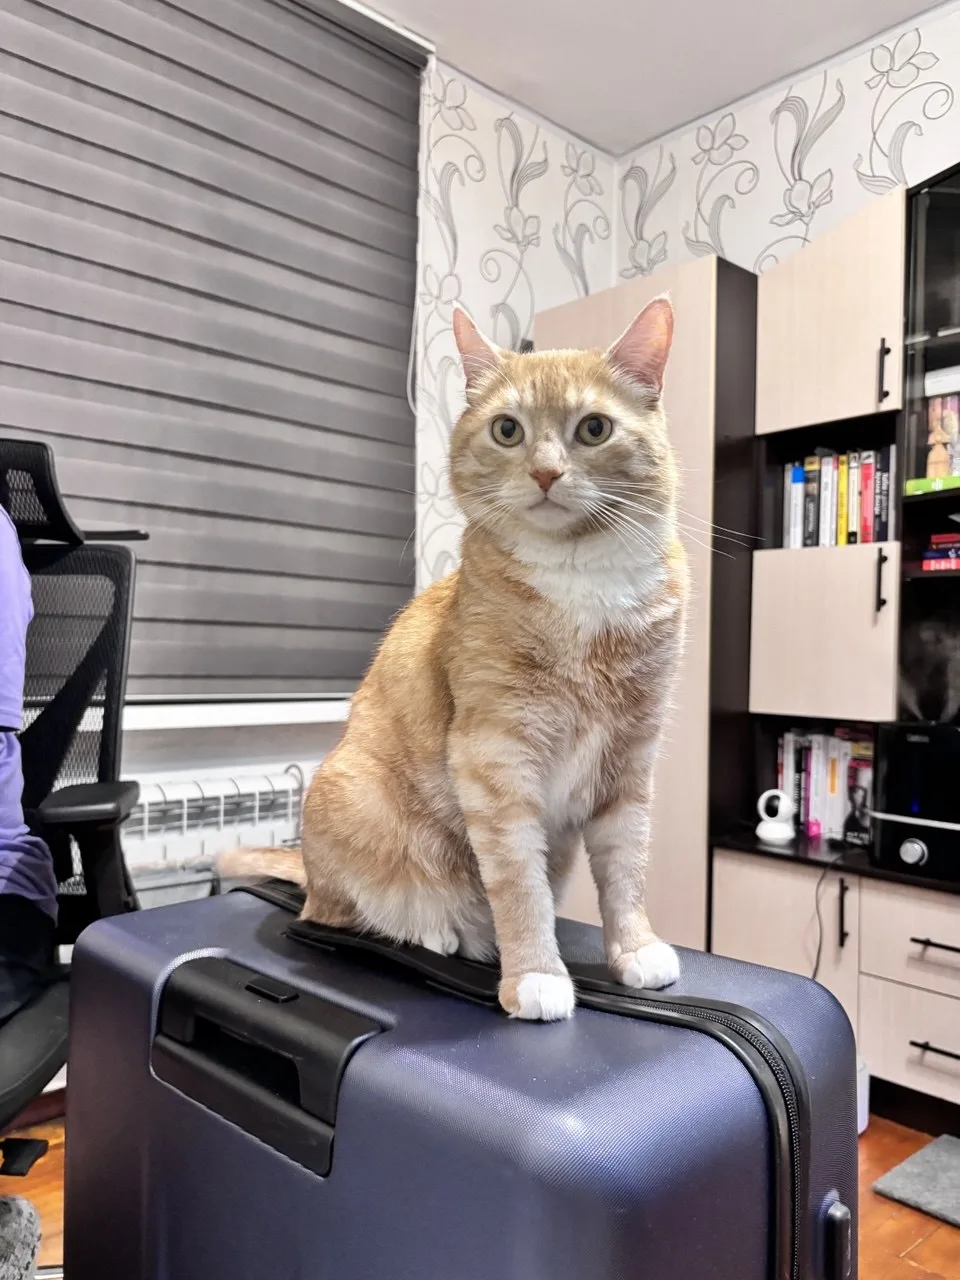
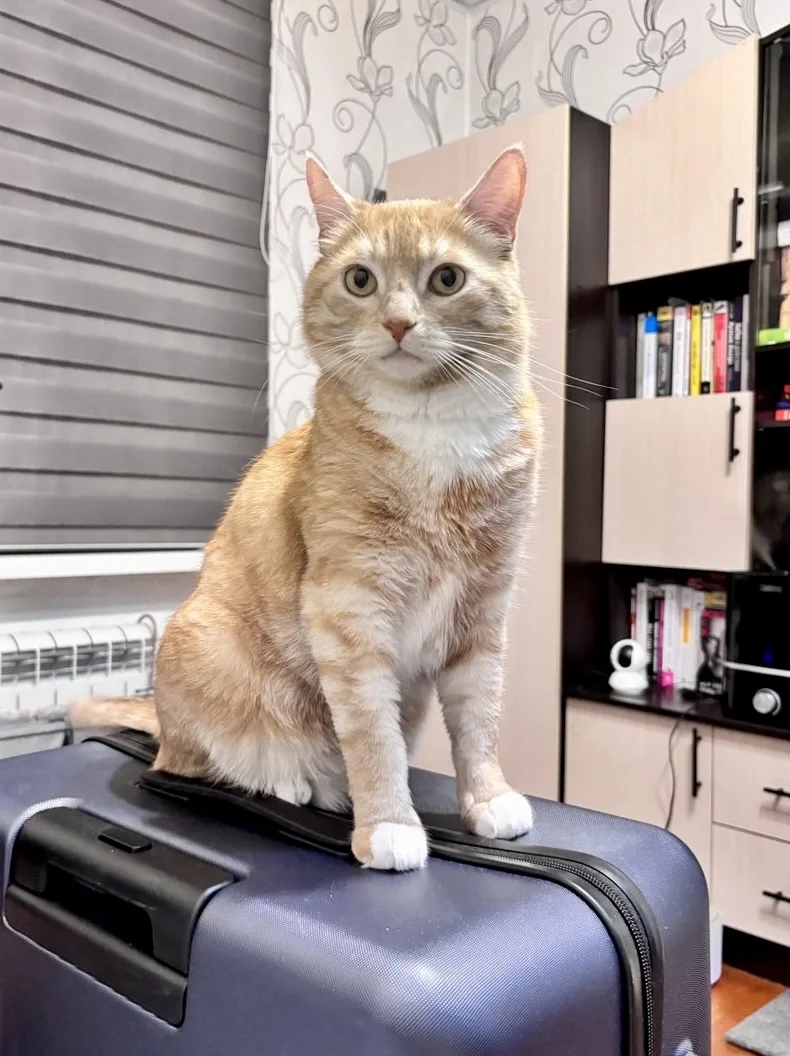
feat: refresh Perseus photos and profile details

diff --git a/src/data/site.ts b/src/data/site.ts
@@ -17,7 +17,7 @@ type SiteContent = {
   setup: { eyebrow: string; title: string; intro: string; items: string[] };
   health: { eyebrow: string; title: string; intro: string; statuses: string[]; note: string };
   travels: { eyebrow: string; title: string; intro: string; trips: { city: string; date: string; type: string; note: string; image: string }[] };
-  gallery: { eyebrow: string; title: string; images: { src: string; alt: string; caption: string; position?: string }[] };
+  gallery: { eyebrow: string; title: string; images: { src: string; alt: string; caption: string; width: number; height: number; position?: string }[] };
   landlords: { eyebrow: string; title: string; paragraphs: string[]; checklist: string[]; cta: string };
   faq: { eyebrow: string; title: string; items: { q: string; a: string }[] };
   contact: { eyebrow: string; title: string; text: string; telegram: string; email: string };
@@ -37,10 +37,10 @@ export const content: Record<Locale, SiteContent> = {
     apartment: { eyebrow: '02 / Home life', title: 'A considerate little guest', intro: 'Observed home behaviour · Familiar routines and our own equipment help every new place feel safe — for Perseus and for the home.', cards: [
       { icon: '◇', title: 'Litter trained', text: 'Uses his own litter box and it is cleaned regularly.' }, { icon: '╱', title: 'Scratching post', text: 'Travels with his own scratching post.' }, { icon: '○', title: 'Own supplies', text: 'Food bowls, litter box, carrier and other essentials travel with us.' }, { icon: '⌂', title: 'Walks in a harness', text: 'Perseus does not go outside unattended.' }, { icon: '◎', title: 'Supervised', text: 'He is not left alone for long periods during travel.' }, { icon: '✦', title: 'Cleaning', text: 'We clean the apartment carefully before leaving.' }
     ] },
-    setup: { eyebrow: 'Travel inventory', title: 'Perseus’s travel kit', intro: 'Everything needed for everyday life travels with him.', items: ['Carrier', 'Portable litter box', 'Scratching post', 'Toys', 'Blanket', 'Camera'] },
+    setup: { eyebrow: 'Travel inventory', title: 'Perseus’s travel kit', intro: 'Everything needed for everyday life travels with him.', items: ['Carrier · approx. 40 × 30 × 30 cm', 'Portable litter box · 45 × 36 × 15 cm', 'Scratching post', 'Toys', 'Blanket', 'Camera'] },
     health: { eyebrow: '03 / Health · Health record', title: 'Well cared for, always', intro: 'Perseus has all his vaccinations and a microchip.', statuses: ['All vaccinations', 'Microchipped'], note: 'Veterinary documents are available upon request.' },
     travels: { eyebrow: '04 / Travels · Field journal', title: 'Perseus’s travel journal', intro: 'A growing record of windows inspected, chairs approved and naps taken.', trips: [{"city": "On the road", "date": "", "type": "By car", "note": "Watching the world from a familiar blanket.", "image": "/images/cat/perseus-car-ride.webp"}, {"city": "A cosy corner", "date": "", "type": "Together", "note": "A blanket and a harness for the journey.", "image": "/images/cat/perseus-train-companion.webp"}, {"city": "A walk in the woods", "date": "", "type": "In a harness", "note": "Exploring the forest on a lead.", "image": "/images/cat/perseus-forest-walk.webp"}, {"city": "A quiet pause", "date": "", "type": "On the terrace", "note": "Watching the trees from the terrace.", "image": "/images/cat/perseus-terrace-watch.webp"}] },
-    gallery: {"eyebrow": "Photo album", "title": "Little moments together", "images": [{"src": "/images/cat/perseus-portrait.webp", "alt": "Perseus resting on a chair", "caption": "A moment at home", "position": "50% 45%"}, {"src": "/images/cat/perseus-forest-portrait.webp", "alt": "Perseus in a harness among forest plants", "caption": "Exploring together", "position": "50% 45%"}, {"src": "/images/cat/perseus-blanket-hideout.webp", "alt": "Perseus peeking out from under a blanket", "caption": "Under the blanket", "position": "50% 45%"}, {"src": "/images/cat/perseus-carrier-nap.webp", "alt": "Perseus sleeping inside his carrier", "caption": "A nap on the road", "position": "50% 45%"}]},
+    gallery: {"eyebrow": "Photo album", "title": "Little moments together", "images": [{"src": "/images/cat/perseus-home-portrait.webp", "alt": "Portrait of Perseus at home", "caption": "A moment at home", "position": "50% 45%", "width": 1227, "height": 1600}, {"src": "/images/cat/perseus-forest-portrait.webp", "alt": "Perseus in a harness among forest plants", "caption": "Exploring together", "position": "50% 45%", "width": 960, "height": 1280}, {"src": "/images/cat/perseus-playtime.webp", "alt": "Perseus playing with a toy on the floor", "caption": "Time to play", "position": "50% 45%", "width": 848, "height": 983}, {"src": "/images/cat/perseus-carrier-nap.webp", "alt": "Perseus sleeping inside his carrier", "caption": "A nap on the road", "position": "50% 45%", "width": 960, "height": 1280}]},
     landlords: { eyebrow: '05 / For landlords', title: 'For hosts & landlords', paragraphs: ['Traveling with a cat sometimes raises reasonable questions for property owners. Perseus is an indoor, litter-trained cat accustomed to staying in apartments.', 'We take full responsibility for our pet and any damage caused by him.', 'We travel with his own litter box, scratching post, carrier, bowls and other supplies. We also clean the property carefully before departure. Veterinary documents can be provided upon request.'], checklist: ['Indoor cat', 'Litter-trained', 'Own scratching post', 'Own travel equipment', 'Vaccinated & microchipped', 'Responsible owners', 'Cleaning before departure'], cta: 'Ask us about Perseus' },
     faq: { eyebrow: 'Good to know', title: 'Questions from landlords', items: [
       { q: 'Does Perseus scratch furniture?', a: 'He uses his own scratching post. We always bring one when traveling.' }, { q: 'Is he litter-trained?', a: 'Yes. He consistently uses his litter box.' }, { q: 'Does he stay alone in the apartment?', a: 'Usually only for short periods.' }, { q: 'Does he go outdoors?', a: 'He goes for walks in a harness and on a lead, with us.' }, { q: 'Can you provide vaccination records?', a: 'Yes. Veterinary documents can be provided privately upon request.' }, { q: 'What happens if the cat damages something?', a: 'We take responsibility for damage caused by our pet.' }
@@ -60,10 +60,10 @@ export const content: Record<Locale, SiteContent> = {
     apartment: { eyebrow: '02 / Жизнь дома', title: 'Деликатный маленький гость', intro: 'Наблюдения за поведением дома · Привычный распорядок и собственные вещи помогают бережно освоиться на новом месте.', cards: [
       { icon: '◇', title: 'Приучен к лотку', text: 'Пользуется своим лотком, который регулярно убирается.' }, { icon: '╱', title: 'Когтеточка', text: 'Путешествует со своей когтеточкой.' }, { icon: '○', title: 'Свои вещи', text: 'Миски, лоток, переноска и всё необходимое всегда с нами.' }, { icon: '⌂', title: 'Прогулки на шлейке', text: 'Персей не выходит на улицу без присмотра.' }, { icon: '◎', title: 'Под присмотром', text: 'В поездках он не остаётся один надолго.' }, { icon: '✦', title: 'Уборка', text: 'Перед отъездом мы тщательно убираем квартиру.' }
     ] },
-    setup: { eyebrow: 'Дорожный инвентарь', title: 'Дорожный набор Персея', intro: 'Всё необходимое для повседневной жизни путешествует вместе с ним.', items: ['Переноска', 'Портативный лоток', 'Когтеточка', 'Игрушки', 'Плед', 'Камера'] },
+    setup: { eyebrow: 'Дорожный инвентарь', title: 'Дорожный набор Персея', intro: 'Всё необходимое для повседневной жизни путешествует вместе с ним.', items: ['Переноска · около 40 × 30 × 30 см', 'Портативный лоток · 45 × 36 × 15 см', 'Когтеточка', 'Игрушки', 'Плед', 'Камера'] },
     health: { eyebrow: '03 / Здоровье · Карта здоровья', title: 'Всегда под заботой', intro: 'У Персея есть все прививки и микрочип.', statuses: ['Все прививки', 'Есть микрочип'], note: 'Ветеринарные документы предоставим по запросу.' },
     travels: { eyebrow: '04 / Поездки · Полевой журнал', title: 'Журнал путешествий Персея', intro: 'Коллекция проверенных окон, удобных кресел и отличных мест для сна.', trips: [{"city": "В дороге", "date": "", "type": "В машине", "note": "Наблюдает за дорогой с привычного пледа.", "image": "/images/cat/perseus-car-ride.webp"}, {"city": "Уютный уголок", "date": "", "type": "Рядом с нами", "note": "Плед и шлейка — спутники в пути.", "image": "/images/cat/perseus-train-companion.webp"}, {"city": "Прогулка в лесу", "date": "", "type": "На шлейке", "note": "Изучает лес на поводке.", "image": "/images/cat/perseus-forest-walk.webp"}, {"city": "Тихая остановка", "date": "", "type": "На террасе", "note": "Наблюдает за лесом с террасы.", "image": "/images/cat/perseus-terrace-watch.webp"}] },
-    gallery: {"eyebrow": "Фотоальбом", "title": "Маленькие моменты вместе", "images": [{"src": "/images/cat/perseus-portrait.webp", "alt": "Персей отдыхает на кресле", "caption": "Домашние мгновения", "position": "50% 45%"}, {"src": "/images/cat/perseus-forest-portrait.webp", "alt": "Персей в шлейке среди лесных растений", "caption": "Исследуем мир вместе", "position": "50% 45%"}, {"src": "/images/cat/perseus-blanket-hideout.webp", "alt": "Персей выглядывает из-под пледа", "caption": "Под пледом", "position": "50% 45%"}, {"src": "/images/cat/perseus-carrier-nap.webp", "alt": "Персей спит в переноске", "caption": "Сон в дороге", "position": "50% 45%"}]},
+    gallery: {"eyebrow": "Фотоальбом", "title": "Маленькие моменты вместе", "images": [{"src": "/images/cat/perseus-home-portrait.webp", "alt": "Домашний портрет Персея", "caption": "Домашние мгновения", "position": "50% 45%", "width": 1227, "height": 1600}, {"src": "/images/cat/perseus-forest-portrait.webp", "alt": "Персей в шлейке среди лесных растений", "caption": "Исследуем мир вместе", "position": "50% 45%", "width": 960, "height": 1280}, {"src": "/images/cat/perseus-playtime.webp", "alt": "Персей играет с игрушкой на полу", "caption": "Время играть", "position": "50% 45%", "width": 848, "height": 983}, {"src": "/images/cat/perseus-carrier-nap.webp", "alt": "Персей спит в переноске", "caption": "Сон в дороге", "position": "50% 45%", "width": 960, "height": 1280}]},
     landlords: { eyebrow: '05 / Арендодателям', title: 'Для хозяев жилья', paragraphs: ['Путешествие с котом может вызывать разумные вопросы у владельцев жилья. Персей — домашний кот, приученный к лотку и проживанию в квартирах.', 'Мы полностью отвечаем за питомца и любой причинённый им ущерб.', 'Мы берём его собственный лоток, когтеточку, переноску, миски и другие вещи. Перед отъездом тщательно убираем жильё. Ветеринарные документы предоставим по запросу.'], checklist: ['Домашний кот', 'Приучен к лотку', 'Своя когтеточка', 'Своё снаряжение', 'Прививки и микрочип', 'Ответственные хозяева', 'Уборка перед отъездом'], cta: 'Спросить о Персее' },
     faq: { eyebrow: 'Полезно знать', title: 'Вопросы арендодателей', items: [
       { q: 'Персей царапает мебель?', a: 'Он пользуется своей когтеточкой, которую мы всегда берём в поездки.' }, { q: 'Он приучен к лотку?', a: 'Да, Персей всегда пользуется своим лотком.' }, { q: 'Он остаётся один?', a: 'Обычно только на короткое время.' }, { q: 'Он выходит на улицу?', a: 'Гуляет с нами в шлейке и на поводке.' }, { q: 'Можно увидеть документы о вакцинации?', a: 'Да, ветеринарные документы предоставим лично по запросу.' }, { q: 'Что будет, если кот что-то повредит?', a: 'Мы берём ответственность за ущерб, причинённый питомцем.' }

diff --git a/src/data/profile.ts b/src/data/profile.ts
@@ -1,7 +1,6 @@
-// Set the confirmed birth date (YYYY-MM-DD) to enable birthday-based updates.
-// An age alone cannot establish an exact birthday.
+// Birth date confirmed by the owner; stored as YYYY-MM-DD.
 export const profile = {
-  birthDate: null as string | null,
+  birthDate: '2018-05-29' as string | null,
   confirmedAge: 8,
   confirmedOn: '2026-09-24',
 };
